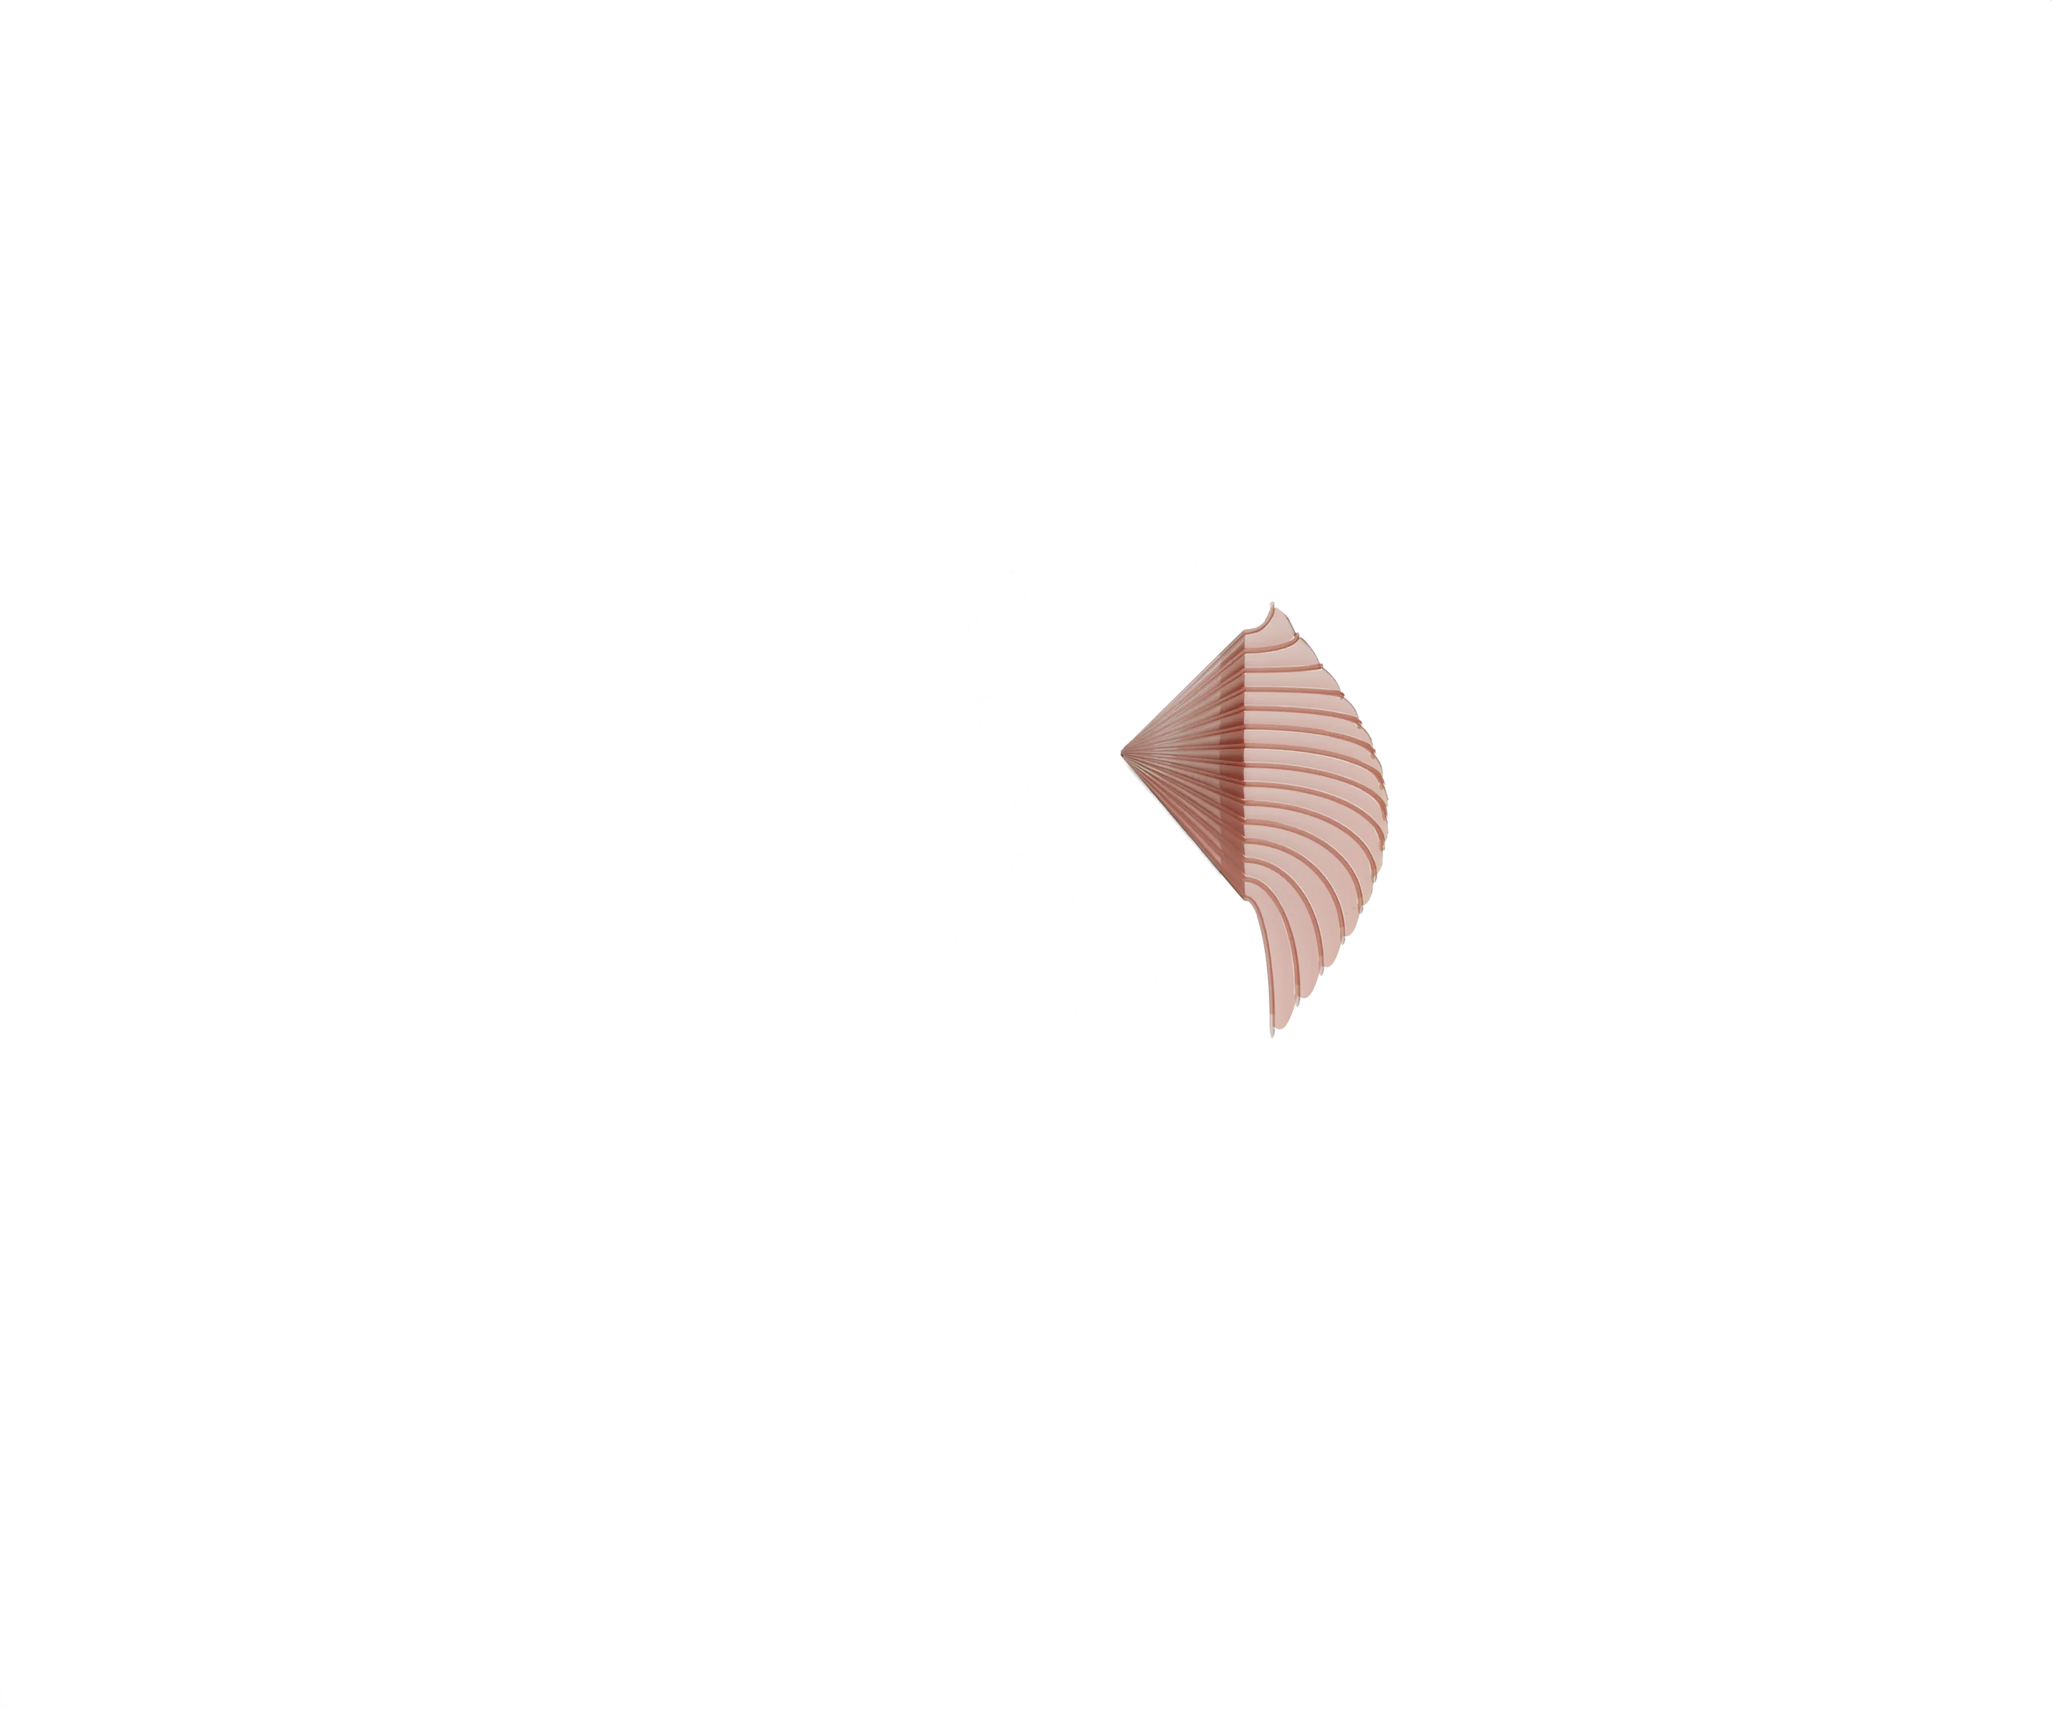
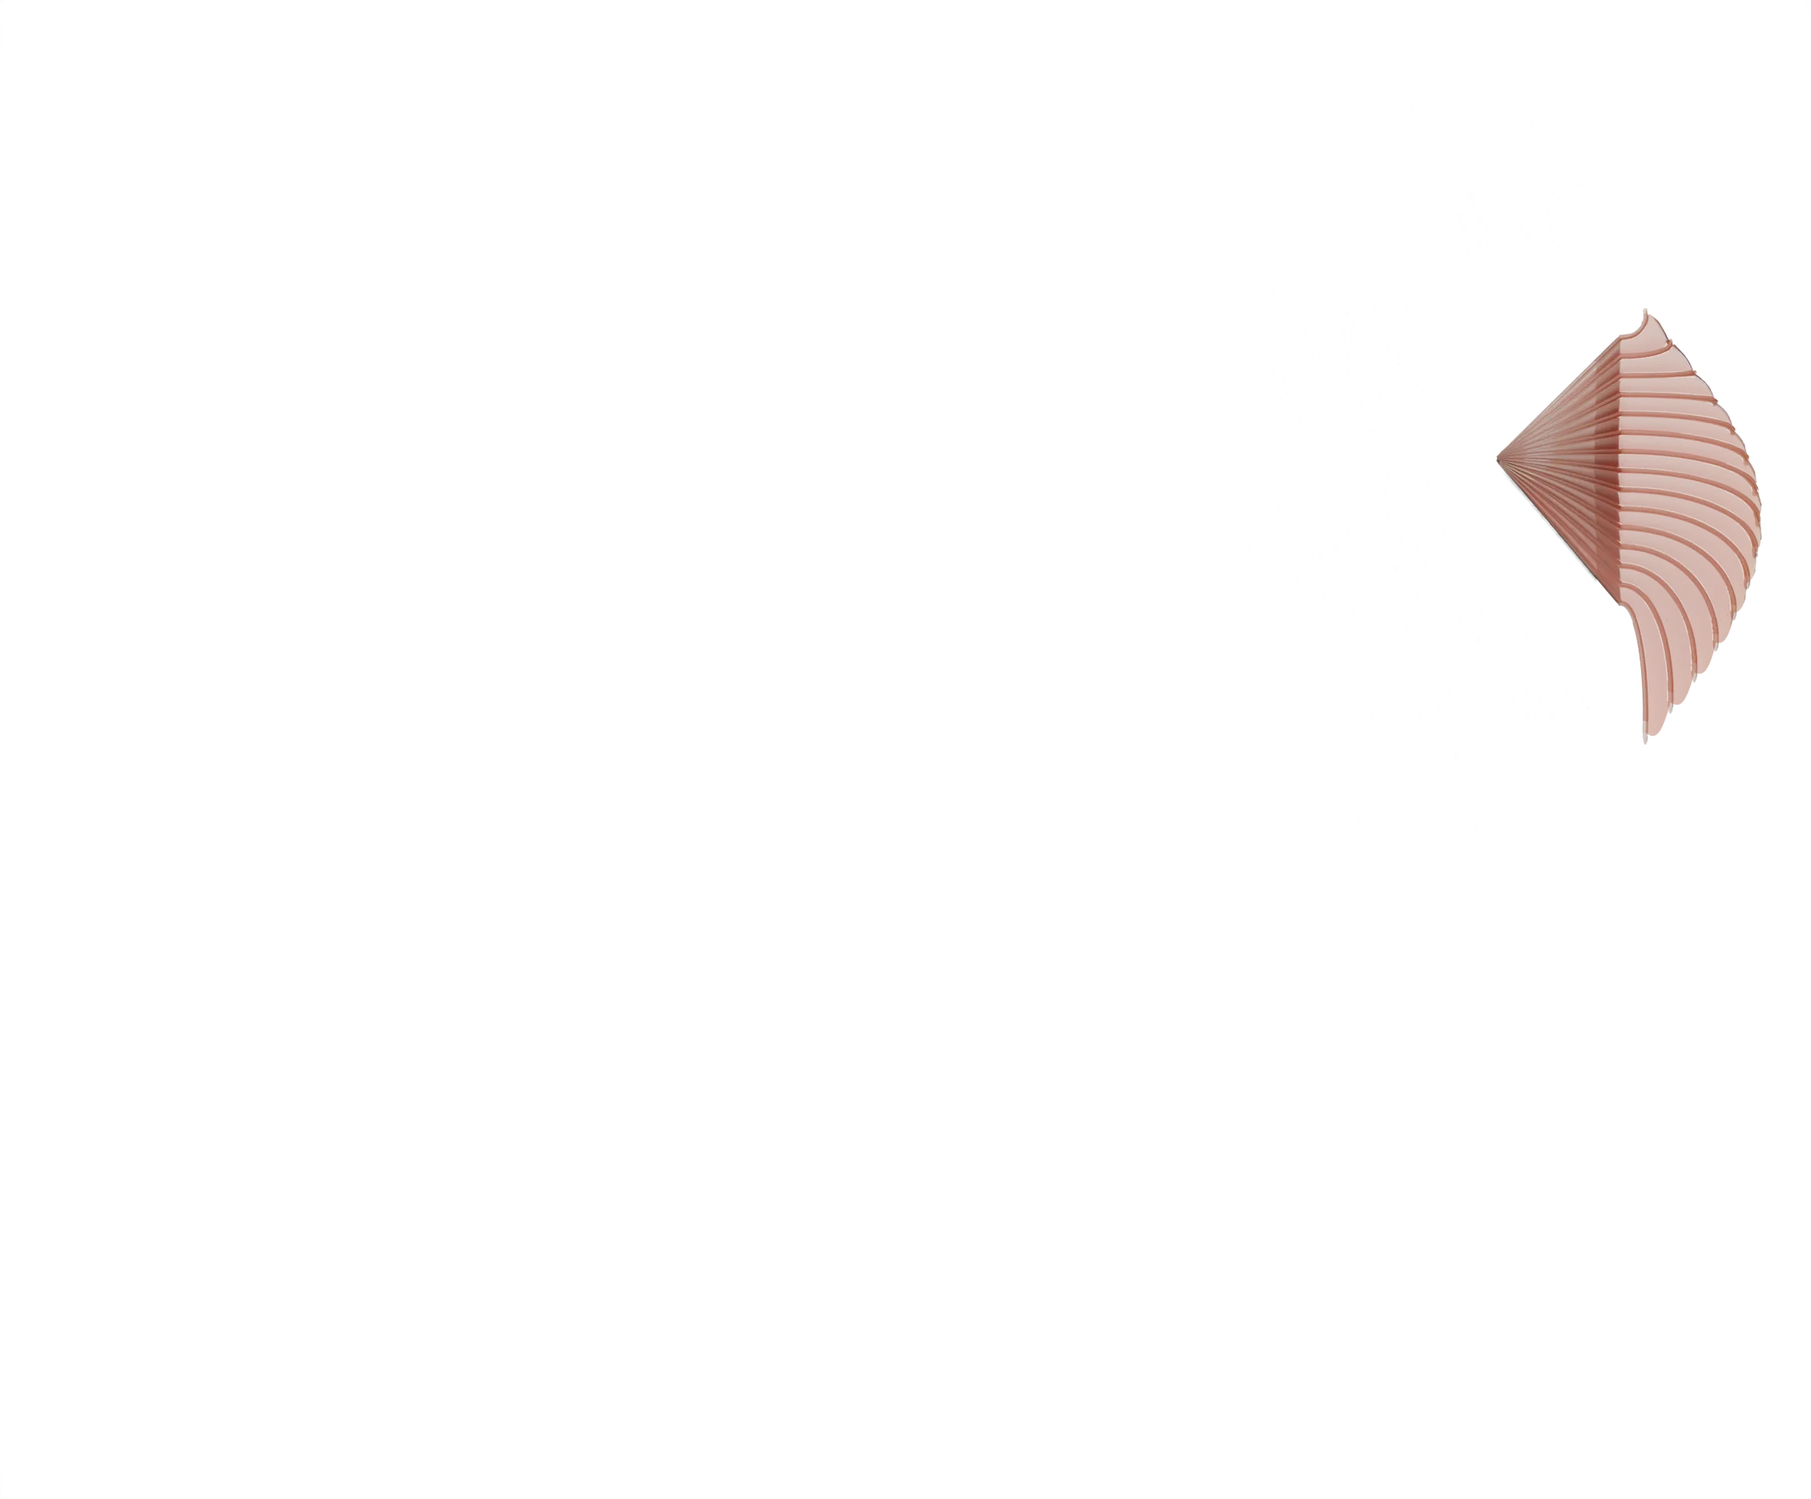
feat(real-ownership): whole fin on screen, centred phone, orange glow and light rays
Re-rendered fin framed whole with its tail fading out; the phone and fin fit the viewport and the phone sits centred. Orange glows behind them, and soft light shafts from the water's surface sway behind the card (off with reduced motion).

Changed region(s): [[0.8053, 0.2171, 0.9912, 0.4963], [0.5265, 0.3412, 0.6814, 0.6203]]

diff --git a/app/route.ts b/app/route.ts
@@ -203,6 +203,8 @@ export async function GET(request: Request) {
     .replace('everything else remains optional.', 'everything else remains <span class=salmon-key>optional</span>.')
     // Real ownership opens on its title, without the icon tile.
     .replace(/(<section id=salmon class=section>) <div class=section-rectangle>[\s\S]*?<\/svg> <\/div>/, '$1')
+    // Light shafts from the water's surface, behind everything in the card.
+    .replace('<div id=salmon-card-0>', '<div id=salmon-card-0><div class=salmon-rays aria-hidden=true></div>')
     // "Add more when you need more." moves up between the Powerups title and "Coming soon" (introRowHtml).
     .replace(' <p>Add more when you need more.</p>', '')
     .replace(
@@ -501,8 +503,7 @@ export async function GET(request: Request) {
         display: none !important;
       }
       #hero .card-content-screen,
-      #program .card-content-screen,
-      #salmon-card-0 .card-content-screen {
+      #program .card-content-screen {
         background: #161c2d;
         box-shadow:
           0 0 0 .9vw #080a0f,
@@ -514,27 +515,23 @@ export async function GET(request: Request) {
          shrunk by --bezel, the outer box-shadow width. The hero phone uses the
          same size for continuity. */
       #hero .card-content-screen,
-      #program .card-content-screen,
-      #salmon-card-0 .card-content-screen {
+      #program .card-content-screen {
         --bezel: 1.02vw;
       }
       .shim-not-null #hero .card-content-screen,
-      .shim-not-null #program .card-content-screen,
-      .shim-not-null #salmon-card-0 .card-content-screen {
+      .shim-not-null #program .card-content-screen {
         width: calc(18.75vw - 2 * var(--bezel));
         height: calc(39.93vw - 2 * var(--bezel));
         border-radius: calc(2.78vw - var(--bezel));
       }
       .shim-null #hero .card-content-screen,
-      .shim-null #program .card-content-screen,
-      .shim-null #salmon-card-0 .card-content-screen {
+      .shim-null #program .card-content-screen {
         width: calc(22.43vh - 2 * var(--bezel));
         height: calc(47.76vh - 2 * var(--bezel));
         border-radius: calc(3.32vh - var(--bezel));
       }
       #hero .card-content-screen::before,
-      #program .card-content-screen::before,
-      #salmon-card-0 .card-content-screen::before {
+      #program .card-content-screen::before {
         content: "";
         position: absolute;
         z-index: 7;
@@ -575,23 +572,91 @@ export async function GET(request: Request) {
         background-color: transparent !important;
       }
       #salmon-card-0 {
+        /* 100cqw below is the card's width, so the fin can be fitted to it. */
+        container-type: inline-size;
+        isolation: isolate;
         margin-top: 0 !important;
         padding-top: var(--salmon-card-top) !important;
+        padding-bottom: var(--salmon-card-top);
         color: #fff;
+      }
+      /* Warm light rising from the card's bottom edge, where the fin sits. */
+      #salmon-card-0::before {
+        content: "";
+        position: absolute;
+        z-index: -1;
+        inset: auto 0 0;
+        height: 55%;
+        background: linear-gradient(to top, rgba(255,92,69,.16), rgba(255,92,69,.05) 45%, rgba(255,92,69,0));
+        pointer-events: none;
+      }
+      /* The card seen from under the water: a bright band where the surface is, and soft parallel shafts
+         coming down from it that fade out before the fin. Two shaft layers with different spacing sway on
+         different periods, so the light never repeats; only transform animates (stripes and blur raster once). */
+      .salmon-rays {
+        position: absolute;
+        z-index: -1;
+        inset: 0;
+        overflow: hidden;
+        border-radius: inherit;
+        background: linear-gradient(to bottom, rgba(255, 214, 196, .13), rgba(255, 214, 196, 0) 9%);
+        pointer-events: none;
+      }
+      .salmon-rays::before,
+      .salmon-rays::after {
+        content: "";
+        position: absolute;
+        top: -10%;
+        left: -25%;
+        width: 150%;
+        height: 85%;
+        background: repeating-linear-gradient(104deg, transparent 0 3vw, rgba(255, 196, 170, .55) 5vw, transparent 8vw 13vw);
+        filter: blur(1vw);
+        -webkit-mask-image: linear-gradient(to bottom, #000, transparent 85%);
+        mask-image: linear-gradient(to bottom, #000, transparent 85%);
+        opacity: .2;
+        transform-origin: 50% 0;
+        animation: salmon-rays-sway 14s ease-in-out infinite alternate;
+      }
+      .salmon-rays::after {
+        background: repeating-linear-gradient(98deg, transparent 0 5vw, rgba(255, 170, 140, .5) 6.5vw, transparent 9vw 17vw);
+        opacity: .16;
+        animation-duration: 21s;
+        animation-direction: alternate-reverse;
+      }
+      @keyframes salmon-rays-sway {
+        from { transform: rotate(-2deg) translateX(-2%); }
+        to { transform: rotate(2deg) translateX(2%); }
+      }
+      @media (prefers-reduced-motion: reduce) {
+        .salmon-rays::before,
+        .salmon-rays::after { animation: none; }
       }
       #salmon-card-0 > p {
         margin-top: 3vw !important;
       }
       /* The salmon fin holding the phone: two renders from blender/fin.py
          (docs/fin-preproduction.md), the back one under the CSS phone and the
-         front one over its live screen. The numbers are the script's "FIN CSS"
-         output divided by the phone's 18.75vw width, so the fin follows the
-         phone in both template sizings. */
+         front one over its live screen. Both renders frame the phone and the
+         whole fin, so this box is their frame and the phone sits inside it.
+         The numbers are the script's "FIN CSS" output divided by 18.75vw, the
+         width it renders the phone at. */
       #salmon-card-0-phone {
-        --phone-w: 18.75vw;
+        --phone-max: 18.75vw;
+        /* The template's phone size, shrunk when needed so the box fits the
+           card's width and the viewport under the header band (96px). */
+        --phone-w: min(var(--phone-max), 100cqw / 4.13573, (100svh - 96px - 32px) / 3.42203);
         /* Phone and fin float as one piece: a slow rise and a slight sway
-           around the phone's centre. */
+           around the box's centre, inside the render's margin. */
         animation: salmon-fin-float 7s ease-in-out infinite;
+      }
+      .shim-null #salmon-card-0-phone { --phone-max: 22.43vh; }
+      #salmon #salmon-card-0-phone {
+        width: calc(4.13573 * var(--phone-w));
+        height: calc(3.42203 * var(--phone-w));
+        /* The phone, not the box, sits on the card's centre line. The screen's
+           left below is its centre (the template translates it -50%). */
+        margin: 3vw 0 0 calc(50% - 3.19509 * var(--phone-w));
       }
       @keyframes salmon-fin-float {
         0%, 100% { translate: 0 0; rotate: 0deg; }
@@ -600,26 +665,58 @@ export async function GET(request: Request) {
       @media (prefers-reduced-motion: reduce) {
         #salmon-card-0-phone { animation: none; }
       }
-      .shim-null #salmon-card-0-phone { --phone-w: 22.43vh; }
+      /* A soft orange light behind phone and fin, fading out before the box's edges. */
+      #salmon-card-0-phone::before {
+        content: "";
+        position: absolute;
+        z-index: 0;
+        inset: 0;
+        background: radial-gradient(closest-side, rgba(255,92,69,.26), rgba(255,92,69,.09) 55%, rgba(255,92,69,0));
+        pointer-events: none;
+      }
       #salmon-card-0-phone img.salmon-fin-back,
       #salmon-card-0-phone img.salmon-fin-front {
-        top: calc(50% - 1.79429 * var(--phone-w));
-        left: calc(50% - 2.34357 * var(--phone-w));
-        width: calc(4.68720 * var(--phone-w));
-        height: calc(3.90352 * var(--phone-w));
+        top: 0;
+        left: 0;
+        width: 100%;
+        height: 100%;
         transform: none;
         pointer-events: none;
       }
-      /* The fin runs on past the render's left and bottom edges; fading there
-         hides the straight cut. */
+      /* The fin rises out of the card: its tail, at the box's lower left, fades
+         in toward the phone so no edge of it reads as a cut. */
       #salmon-card-0-phone img.salmon-fin-back {
         z-index: 1;
-        -webkit-mask-image: linear-gradient(to right, transparent 0, #000 22%), linear-gradient(to top, transparent 0, #000 14%);
-        -webkit-mask-composite: source-in;
-        mask-image: linear-gradient(to right, transparent 0, #000 22%), linear-gradient(to top, transparent 0, #000 14%);
-        mask-composite: intersect;
+        -webkit-mask-image: linear-gradient(55deg, transparent 16%, #000 50%);
+        mask-image: linear-gradient(55deg, transparent 16%, #000 50%);
       }
       #salmon-card-0-phone img.salmon-fin-front { z-index: 3; }
+      /* The phone, in the same proportions as the hero's, scaled by --phone-w. */
+      #salmon-card-0 .card-content-screen {
+        --bezel: calc(.0544 * var(--phone-w));
+        left: calc(3.19509 * var(--phone-w));
+        top: calc(1.12357 * var(--phone-w));
+        width: calc(var(--phone-w) - 2 * var(--bezel));
+        height: calc(2.1296 * var(--phone-w) - 2 * var(--bezel));
+        border-radius: calc(.14827 * var(--phone-w) - var(--bezel));
+        background: #161c2d;
+        box-shadow:
+          0 0 0 calc(.048 * var(--phone-w)) #080a0f,
+          0 0 0 var(--bezel) #ff7e6d,
+          0 calc(.11733 * var(--phone-w)) calc(.26667 * var(--phone-w)) rgba(16,19,28,.28);
+      }
+      #salmon-card-0 .card-content-screen::before {
+        content: "";
+        position: absolute;
+        z-index: 7;
+        top: calc(.03467 * var(--phone-w));
+        left: 50%;
+        width: calc(.27733 * var(--phone-w));
+        height: calc(.06667 * var(--phone-w));
+        border-radius: 999px;
+        background: #080a0f;
+        transform: translateX(-50%);
+      }
       #salmon-card-1.salmon-get-card {
         box-sizing: border-box;
         min-height: 38vw;
@@ -1055,25 +1152,23 @@ export async function GET(request: Request) {
         /* The card is narrower than the page, so the title shrinks to stay on one line. */
         #salmon-card-0 > h2 { font-size: 13vw !important; }
         #salmon-card-0 > p { margin-top: 8vw !important; }
+        #salmon #salmon-card-0-phone { margin-top: 8vw; }
         #salmon-card-1.salmon-get-card { min-height: auto; padding: 72px 24px; }
         #salmon-card-1 .salmon-get-title { margin-bottom: 14px; }
         #salmon-card-1 .salmon-get-subtitle { margin-bottom: 48px; }
         #salmon-card-1 .salmon-downloads { display: flex; gap: 0; }
         #salmon-card-1 .salmon-download { --d: min(112px, 23vw); }
         #hero .card-content-screen,
-        #program .card-content-screen,
-        #salmon-card-0 .card-content-screen {
+        #program .card-content-screen {
           box-shadow:
             0 0 0 2.2vw #080a0f,
             0 0 0 2.55vw #ff7e6d,
             0 5vw 12vw rgba(16,19,28,.28);
         }
         #hero .card-content-screen,
-        #program .card-content-screen,
-        #salmon-card-0 .card-content-screen { --bezel: 2.55vw; }
+        #program .card-content-screen { --bezel: 2.55vw; }
         #hero .card-content-screen::before,
-        #program .card-content-screen::before,
-        #salmon-card-0 .card-content-screen::before {
+        #program .card-content-screen::before {
           top: 1.6vw;
           width: 13vw;
           height: 3vw;

diff --git a/blender/fin.py b/blender/fin.py
@@ -37,9 +37,9 @@ BEZEL = 1.02 / VW_PER_MM
 EDGE_X = PHONE_W / 2
 WRAP_R = PHONE_T / 2 + 1.0  # half the thickness plus clearance
 
-# The concept image's frame, 1280x1066 px, with its phone mapped onto ours:
-# the phone spans px 504-776 x 215-765 there.
-FRAME_PX = (1280, 1066)
+# Points are given in the concept image's px (1280x1066), with its phone
+# mapped onto ours: the phone spans px 504-776 x 215-765 there.
+PHONE_BOX_PX = (504, 215, 776, 765)
 MM_PER_PX = PHONE_W / 272
 PHONE_CENTRE_PX = (640, 490)
 
@@ -261,6 +261,20 @@ def ray_material():
     return m
 
 
+def render_frame(pad=32):
+    """The render's frame in concept px (left, top, right, bottom): the phone
+    and the whole fin plus a margin. The concept's own frame cut the fan's
+    tail at its left and bottom edges."""
+    points = [ray_point(i / 100, k / 200) for i in range(101) for k in range(201)]
+    xs = [PHONE_CENTRE_PX[0] + p.x / MM_PER_PX for p in points] + [PHONE_BOX_PX[0], PHONE_BOX_PX[2]]
+    ys = [PHONE_CENTRE_PX[1] - p.z / MM_PER_PX for p in points] + [PHONE_BOX_PX[1], PHONE_BOX_PX[3]]
+    return (math.floor(min(xs)) - pad, math.floor(min(ys)) - pad, math.ceil(max(xs)) + pad, math.ceil(max(ys)) + pad)
+
+
+FRAME = render_frame()
+FRAME_PX = (FRAME[2] - FRAME[0], FRAME[3] - FRAME[1])
+
+
 def build_phone():
     bpy.ops.mesh.primitive_cube_add(size=1)
     body = bpy.context.object
@@ -462,8 +476,7 @@ def build_scene():
     fin_materials = (membrane_material(), ray_material())
     build_fin(*fin_materials)
 
-    # The camera frames exactly the concept image, so the two overlay.
-    centre_x, centre_z = from_px(FRAME_PX[0] / 2, FRAME_PX[1] / 2)
+    centre_x, centre_z = from_px((FRAME[0] + FRAME[2]) / 2, (FRAME[1] + FRAME[3]) / 2)
     frame_w = FRAME_PX[0] * MM_PER_PX
     lens = 100.0
     distance = frame_w * lens / 36.0

diff --git a/docs/fin-preproduction.md b/docs/fin-preproduction.md
@@ -36,7 +36,7 @@ La base de la aleta (donde nacen los radios) apoya sobre la pantalla cerca del b
 
 ## Integración en la web
 
-Hecha (2026-11-05): `blender/fin.py -- <dir> layers 200` renderiza `fin-back.png` y `fin-front.png` (2560×2132) e imprime la línea `FIN CSS` con su posición en vw. Se convierten a WebP en `public/fin/` y `app/route.ts` las ubica alrededor del celular de CSS de `#salmon-card-0` con números relativos al ancho del celular (`--phone-w`), así siguen al celular en las dos medidas del template (vw y vh). Si cambia la forma o el material, se vuelve a correr el comando y se reemplazan los dos WebP; si cambia el tamaño del celular, también los números del CSS.
+Hecha (2026-11-05): `blender/fin.py -- <dir> layers 200` renderiza `fin-back.png` y `fin-front.png` (2260×1870, un cuadro que encierra el celular y la aleta entera con margen, para que ningún borde la corte) e imprime la línea `FIN CSS` con su posición en vw. Se convierten a WebP en `public/fin/` y `app/route.ts` las ubica alrededor del celular de CSS de `#salmon-card-0` con números relativos al ancho del celular (`--phone-w`), así siguen al celular en las dos medidas del template (vw y vh). Si cambia la forma o el material, se vuelve a correr el comando y se reemplazan los dos WebP; si cambia el tamaño del celular, también los números del CSS.
 
 - El marco del celular hoy viene en la foto de la mano. Con la aleta, el celular pasa a ser el mismo de CSS que el hero y Powerups (pantalla + bisel con `box-shadow`), y la aleta se renderiza contra esas medidas.
 - Flotación (después): las capas y el celular suben y bajan juntos con CSS; una ondulación real de la aleta requiere una secuencia renderizada.
